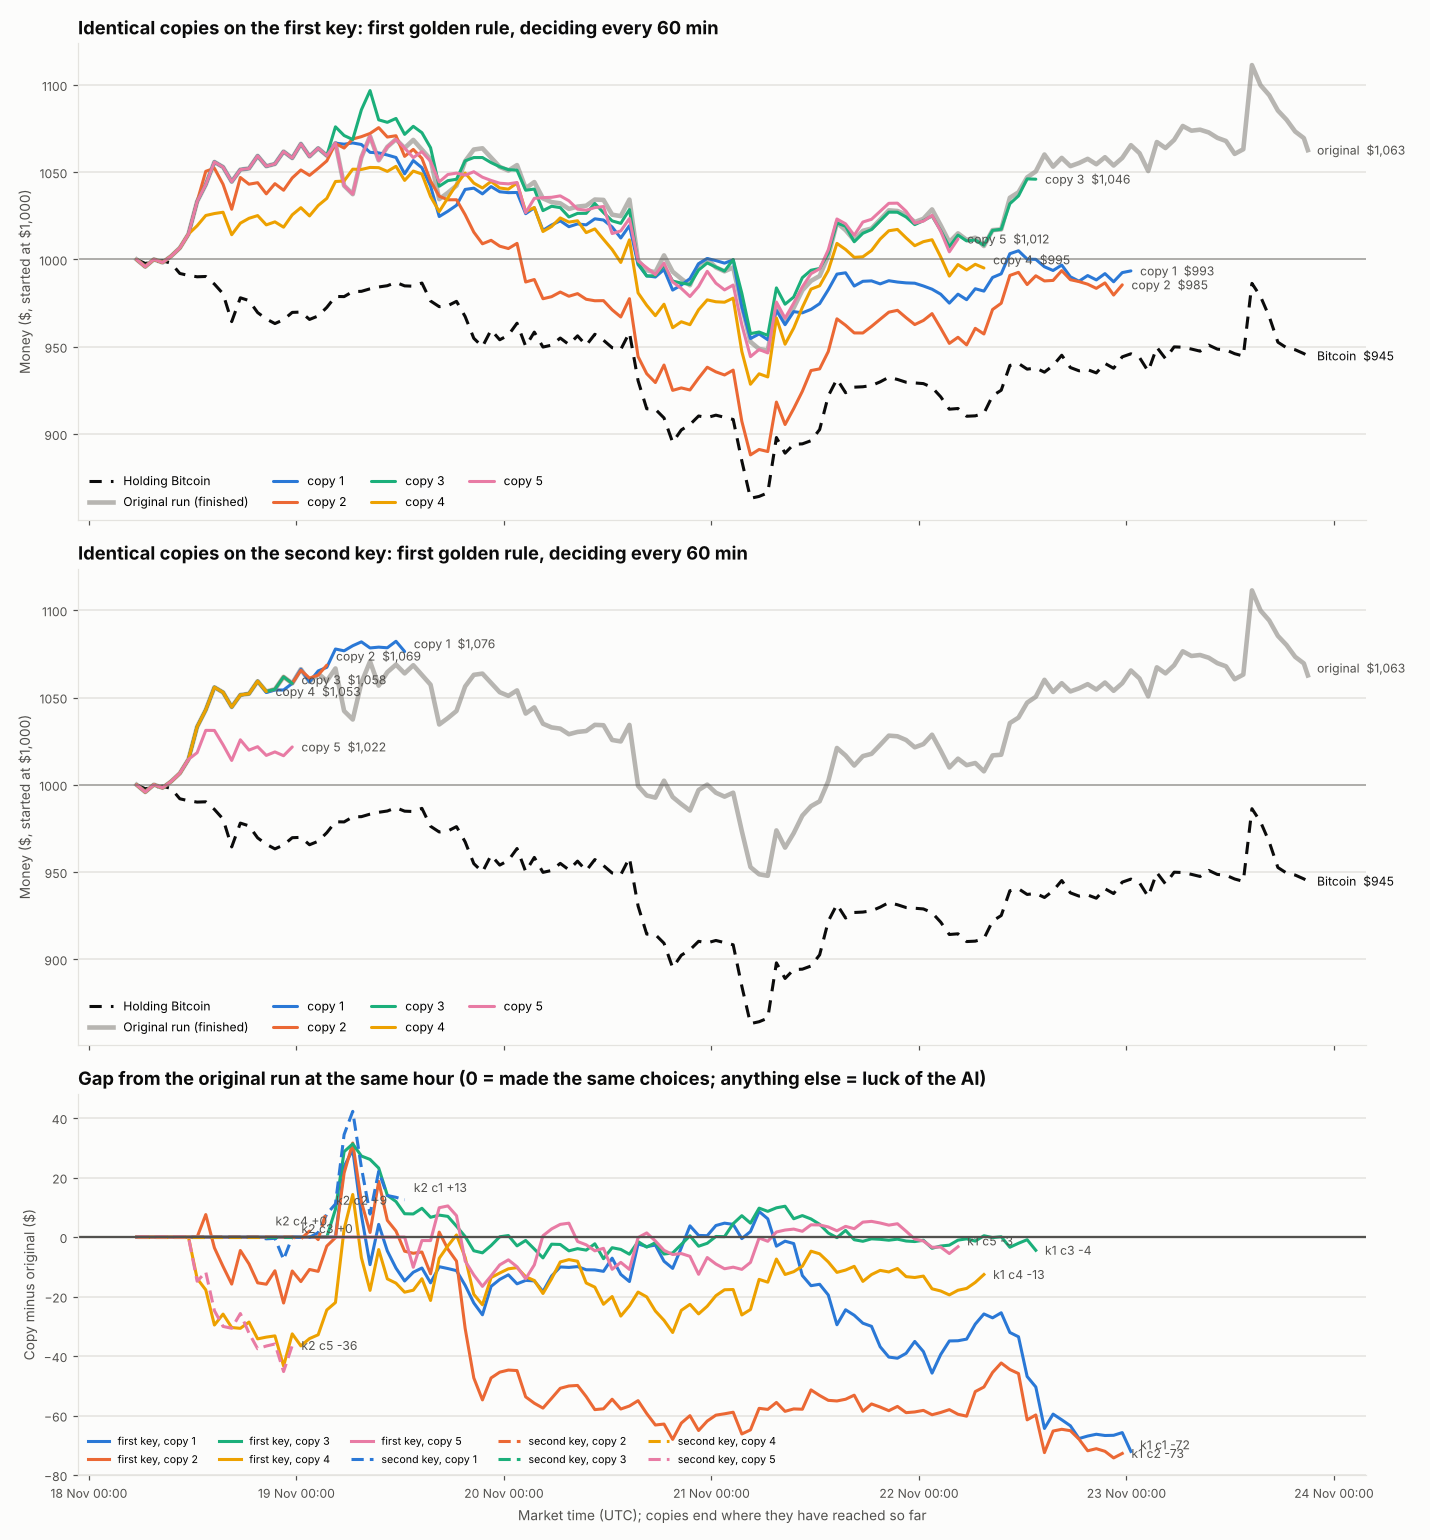
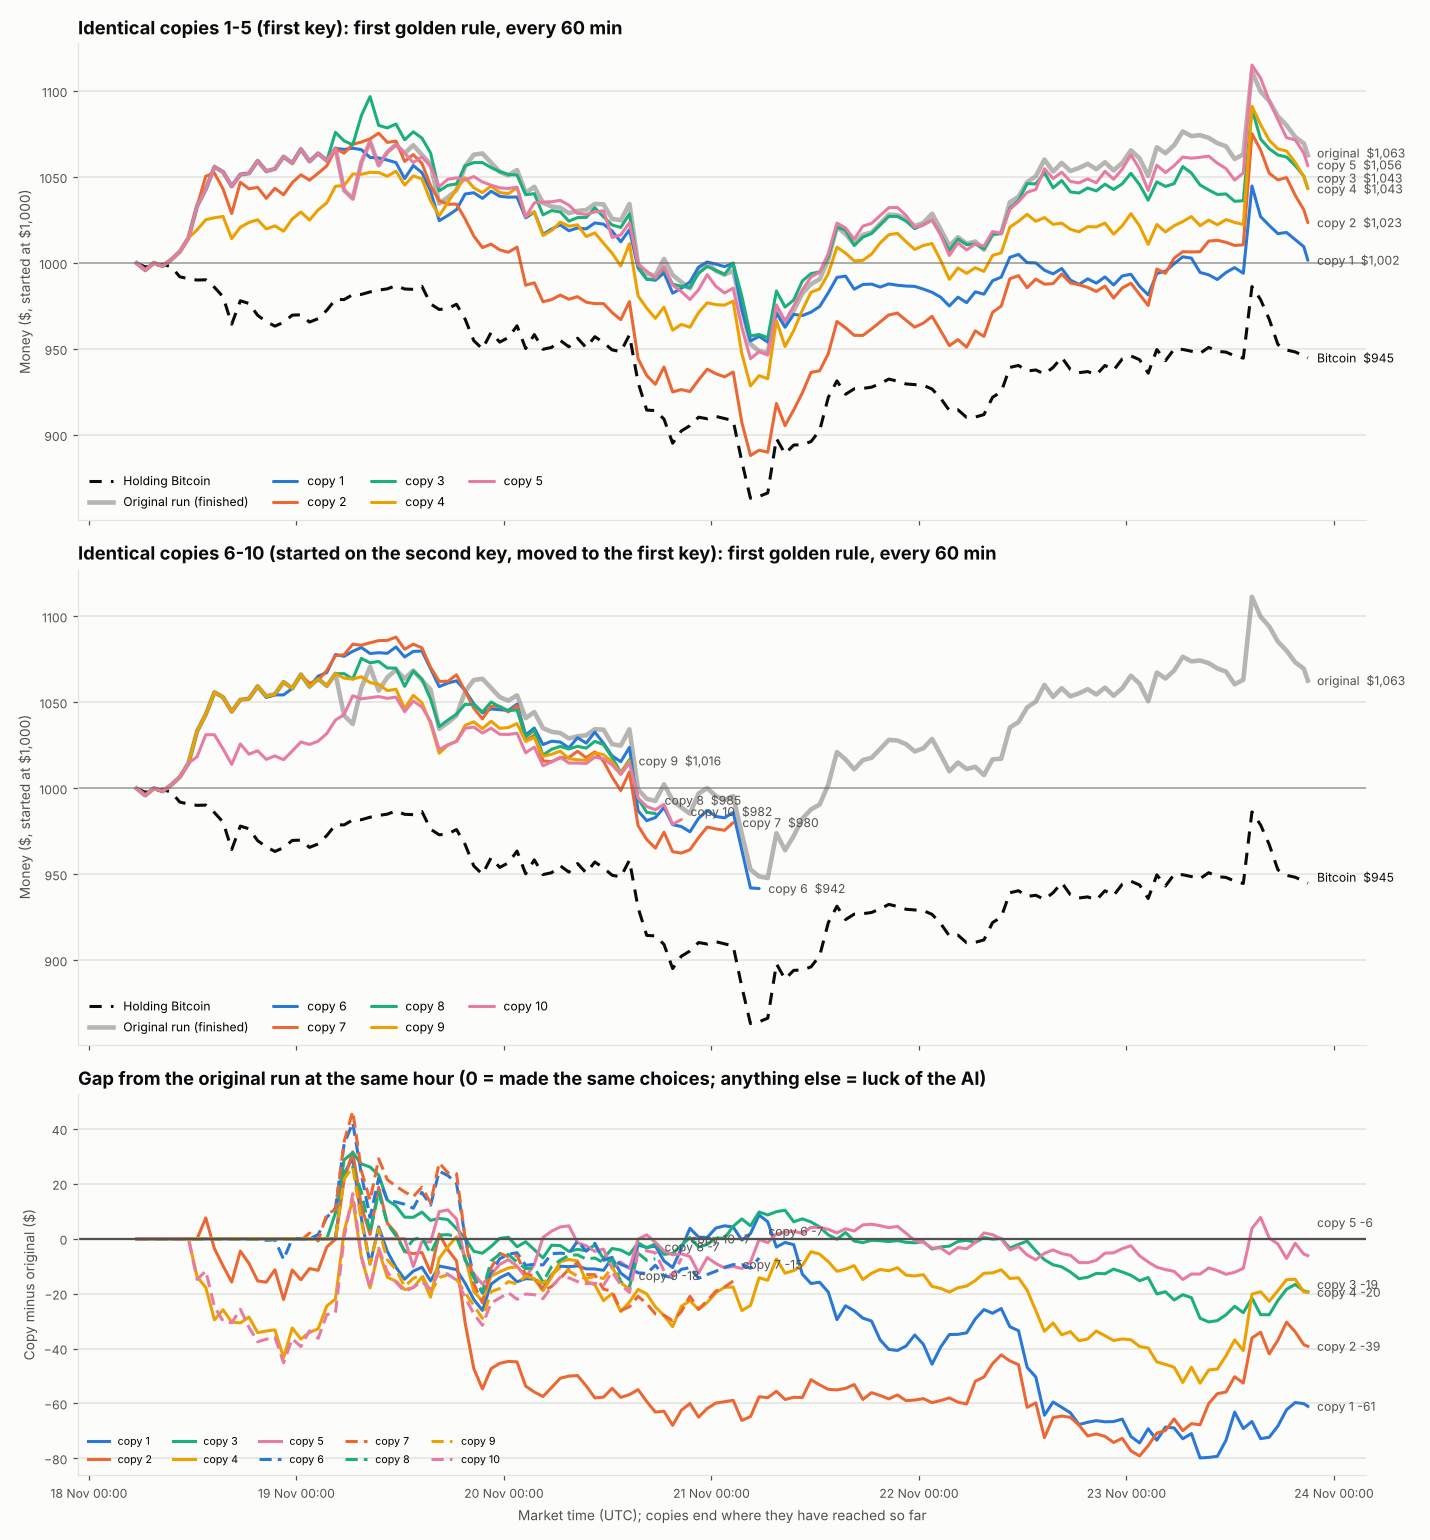
Copies chart: number copies 1-10, show final values of finished copies
Claude-Session: https://claude.ai/code/session_01Q4zuW2hFjpzuH9a9JaFPqg

diff --git a/crypto/copies_chart.py b/crypto/copies_chart.py
@@ -27,7 +27,12 @@ def load(tag):
         return [], [], []
     rows = [r for r in csv.DictReader(open(p)) if r.get("time") and r["time"] != "time" and r["value"]]
     t = [datetime.strptime(r["time"], "%Y-%m-%d %H:%M") for r in rows]
-    return t, [float(r["value"]) for r in rows], [float(r["btc_hold"]) for r in rows]
+    v, b = [float(r["value"]) for r in rows], [float(r["btc_hold"]) for r in rows]
+    res = os.path.join(HERE, f"result_1m_every60_v4a_{tag}.json")
+    if tag != "ultrafast" and os.path.exists(res):          # finished copy: add its true final value at 20:59
+        a = json.load(open(res))
+        t, v, b = t + [datetime(2026, 11, 23, 20, 59)], v + [a["ai"]["value"]], b + [a["btc_hold"]["value"]]
+    return t, v, b
 
 
 def main():
@@ -47,8 +52,8 @@ def main():
             if not pts:
                 continue
             gap_ax.plot([p[0] for p in pts], [p[1] for p in pts], color=SLOTS[c - 1], lw=2, ls=style,
-                        label=f"{'first' if key == 1 else 'second'} key, copy {c}")
-            gap_ends.append([pts[-1][1], pts[-1][1], f"k{key} c{c}", pts[-1][0]])
+                        label=f"copy {c if key == 1 else c + 5}")
+            gap_ends.append([pts[-1][1], pts[-1][1], f"copy {c if key == 1 else c + 5}", pts[-1][0]])
     gap_ends.sort()
     for j in range(1, len(gap_ends)):
         gap_ends[j][1] = max(gap_ends[j][1], gap_ends[j - 1][1] + 5)
@@ -60,7 +65,8 @@ def main():
                      loc="left", fontsize=12, color=INK, weight="bold")
     gap_ax.set_ylabel("Copy minus original ($)", color=INK2, fontsize=9)
     gap_ax.legend(loc="lower left", fontsize=7, frameon=False, ncol=5)
-    for ax, key, title in ((axes[0], 1, "first key"), (axes[1], 2, "second key")):
+    for ax, key, title in ((axes[0], 1, "copies 1-5 (first key)"),
+                           (axes[1], 2, "copies 6-10 (started on the second key, moved to the first key)")):
         ax.plot(ot, ob, color=INK, lw=2, ls=(0, (4, 3)), label="Holding Bitcoin")
         ax.plot(ot, ov, color="#898781", lw=3, alpha=0.6, label="Original run (finished)")
         ends = [[ov[-1], ov[-1], "original", ot[-1], INK2], [ob[-1], ob[-1], "Bitcoin", ot[-1], INK]]
@@ -68,8 +74,9 @@ def main():
             t, v, _ = load(f"ultrafast_k{key}c{c}")
             if not t:
                 continue
-            ax.plot(t, v, color=SLOTS[c - 1], lw=2, label=f"copy {c}", solid_capstyle="round")
-            ends.append([v[-1], v[-1], f"copy {c}", t[-1], INK2])
+            n = c if key == 1 else c + 5
+            ax.plot(t, v, color=SLOTS[c - 1], lw=2, label=f"copy {n}", solid_capstyle="round")
+            ends.append([v[-1], v[-1], f"copy {n}", t[-1], INK2])
         ends.sort()
         for j in range(1, len(ends)):
             ends[j][1] = max(ends[j][1], ends[j - 1][1] + 7)
@@ -77,7 +84,7 @@ def main():
             ax.annotate(f"{name}  ${y:,.0f}", (tt, y), xytext=(6, yl - y), textcoords="offset points", fontsize=8,
                         color=col, va="center")
         ax.axhline(1000, color=INK2, lw=1, alpha=0.5)
-        ax.set_title(f"Identical copies on the {title}: first golden rule, deciding every 60 min", loc="left",
+        ax.set_title(f"Identical {title}: first golden rule, every 60 min", loc="left",
                      fontsize=12, color=INK, weight="bold")
         ax.set_ylabel("Money ($, started at $1,000)", color=INK2, fontsize=9)
         ax.grid(axis="y", color=GRID, lw=1)
